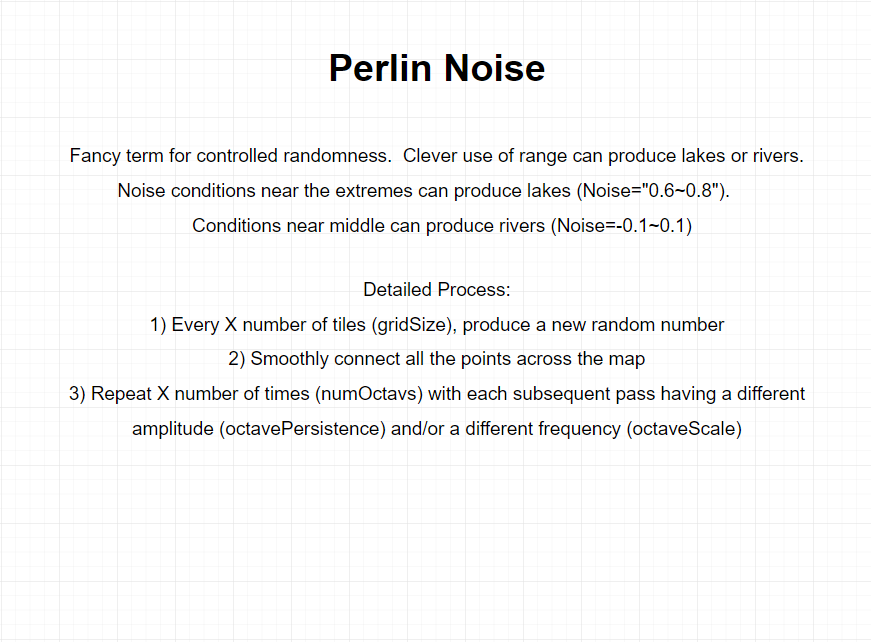
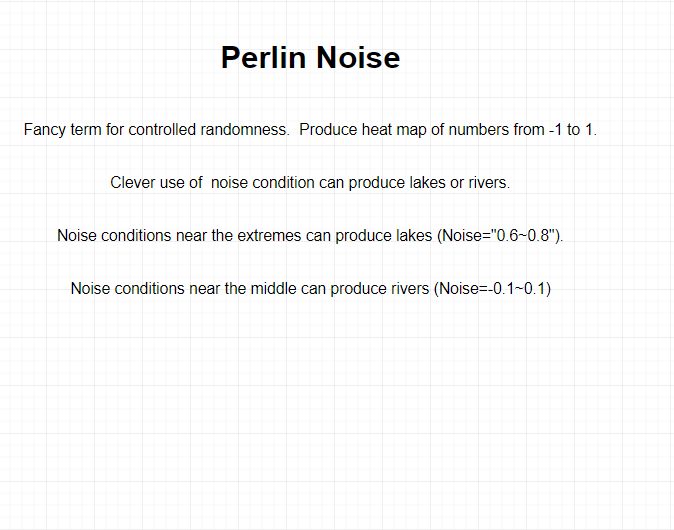
ProMage: - Improvements to help window - Added controls for cycling through different steps and another method of closing

diff --git a/Code/Editor/HelpWindow.cpp b/Code/Editor/HelpWindow.cpp
@@ -31,24 +31,55 @@ bool HelpWindow::UpdateChild( float deltaSeconds ) {
     ImVec2 contentMin = ImGui::GetWindowContentRegionMin();
     ImVec2 contentMax = ImGui::GetWindowContentRegionMax();
     Vec2 contentDims = Vec2( contentMax ) - Vec2( contentMin );
+    Vec2 imageDims = 0.9f * contentDims;
 
     ImGui::SetColumnWidth( 0, 0.05f * contentDims.x );
-    ImGui::SetColumnWidth( 1, 0.9f  * contentDims.x );
+    ImGui::SetColumnWidth( 1, imageDims.x );
     ImGui::SetColumnWidth( 2, 0.05f * contentDims.x );
 
-    // put a left button
+    // Ignore first column
     ImGui::NextColumn();
 
+    // Middle column with all the stuff
     const std::string& imageName = m_typeNames[m_typeIndex];
     TextureView2D* helpImage = g_theRenderer->GetOrCreateTextureView2D( imageName );
     void* shaderResource = helpImage->GetShaderView();
 
-    Vec2 imageDims = 0.9f * contentDims;
-
     ImGui::Image( shaderResource, imageDims.GetAsImGui() );
+
+    // Controls
+    TextureView2D* leftArrow = g_theRenderer->GetOrCreateTextureView2D( TEXTURE_EDITOR_MEDIA_LEFT );
+    TextureView2D* rightArrow = g_theRenderer->GetOrCreateTextureView2D( TEXTURE_EDITOR_MEDIA_RIGHT );
+
+    void* leftResource  = leftArrow->GetShaderView();
+    void* rightResource = rightArrow->GetShaderView();
+
+    if( ImGui::ImageButton( leftResource, ImVec2( 50.f, 50.f ) ) ) {
+        if( m_typeIndex == 0 ) {
+            m_typeIndex = (int)m_typeNames.size();
+        }
+
+        m_typeIndex--;
+    }
+
+    ImGui::SameLine();
+
+    if( ImGui::ImageButton( rightResource, ImVec2( 50.f, 50.f ) ) ) {
+        m_typeIndex++;
+        m_typeIndex = m_typeIndex % m_typeNames.size();
+    }
+
+    ImVec2 buttonSize = ImGui::GetItemRectSize(); // Requested 50, but could be different because of padding
+    ImGui::SameLine();
+
+    if( ImGui::Button( "Close", buttonSize ) ) {
+        m_windowIsOpen = false;
+    }
+
+
     ImGui::NextColumn();
 
-    // put a right button
+    // Ignore last column
     ImGui::NextColumn();
 
     ImGui::Columns( 1 );

diff --git a/Code/Editor/Editor.cpp b/Code/Editor/Editor.cpp
@@ -87,12 +87,14 @@ void Editor::Startup() {
     g_theEventSystem->Subscribe( EVENT_EDITOR_SAVE_MAPS, &EditorMapDef::SaveAllToXml );
 
     // Load Help Images
-    g_theRenderer->GetOrCreateTextureView2D( TEXTURE_EDITOR_HELP_CA );
-    g_theRenderer->GetOrCreateTextureView2D( TEXTURE_EDITOR_HELP_DF );
-    g_theRenderer->GetOrCreateTextureView2D( TEXTURE_EDITOR_HELP_FI );
-    g_theRenderer->GetOrCreateTextureView2D( TEXTURE_EDITOR_HELP_PN );
-    g_theRenderer->GetOrCreateTextureView2D( TEXTURE_EDITOR_HELP_RnP );
-    g_theRenderer->GetOrCreateTextureView2D( TEXTURE_EDITOR_HELP_Spr );
+    g_theRenderer->GetOrCreateTextureView2D( TEXTURE_EDITOR_HELP_CA     );
+    g_theRenderer->GetOrCreateTextureView2D( TEXTURE_EDITOR_HELP_DF     );
+    g_theRenderer->GetOrCreateTextureView2D( TEXTURE_EDITOR_HELP_FI     );
+    g_theRenderer->GetOrCreateTextureView2D( TEXTURE_EDITOR_HELP_PN     );
+    g_theRenderer->GetOrCreateTextureView2D( TEXTURE_EDITOR_HELP_RnP    );
+    g_theRenderer->GetOrCreateTextureView2D( TEXTURE_EDITOR_HELP_Spr    );
+    g_theRenderer->GetOrCreateTextureView2D( TEXTURE_EDITOR_MEDIA_LEFT  );
+    g_theRenderer->GetOrCreateTextureView2D( TEXTURE_EDITOR_MEDIA_RIGHT );
 
     // Setup Editor
     m_mapWindow  = new MapWindow(  Vec2( 0.65f, 0.88f ), Vec2( 0.f, 0.83f ) );

diff --git a/Code/Editor/EditorCommon.hpp b/Code/Editor/EditorCommon.hpp
@@ -21,6 +21,9 @@ constexpr char  TEXTURE_EDITOR_MEDIA_PLAY[]     = "Data/Images/Media/Play.png";
 constexpr char  TEXTURE_EDITOR_MEDIA_PAUSE[]    = "Data/Images/Media/Pause.png";
 constexpr char  TEXTURE_EDITOR_MEDIA_LOOP[]     = "Data/Images/Media/Sync.png";
 
+constexpr char  TEXTURE_EDITOR_MEDIA_LEFT[]     = "Data/Images/Media/LeftArrow.png";
+constexpr char  TEXTURE_EDITOR_MEDIA_RIGHT[]    = "Data/Images/Media/RightArrow.png";
+
 constexpr char  TEXTURE_EDITOR_HELP_CA[]        = "Data/Images/HelpDocs/CellularAutomata.png";
 constexpr char  TEXTURE_EDITOR_HELP_DF[]        = "Data/Images/HelpDocs/DistanceField.png";
 constexpr char  TEXTURE_EDITOR_HELP_FI[]        = "Data/Images/HelpDocs/FromImage.png";

diff --git a/Code/Editor/HelpWindow.hpp b/Code/Editor/HelpWindow.hpp
@@ -17,7 +17,7 @@ class HelpWindow : public EditorWindow {
 
     private:
     Camera* m_camera = nullptr;
-    bool m_typeIndex = 0;
+    int m_typeIndex = 0;
 
     const Strings m_typeNames = {
         TEXTURE_EDITOR_HELP_CA,
